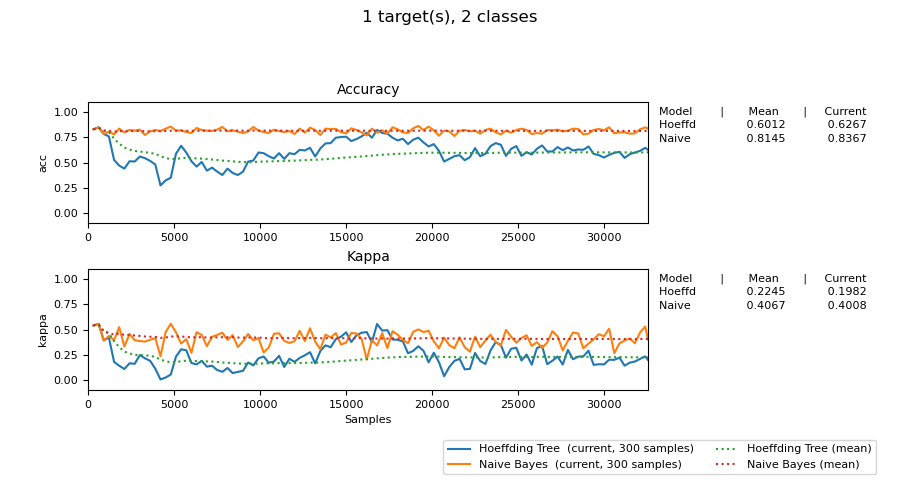
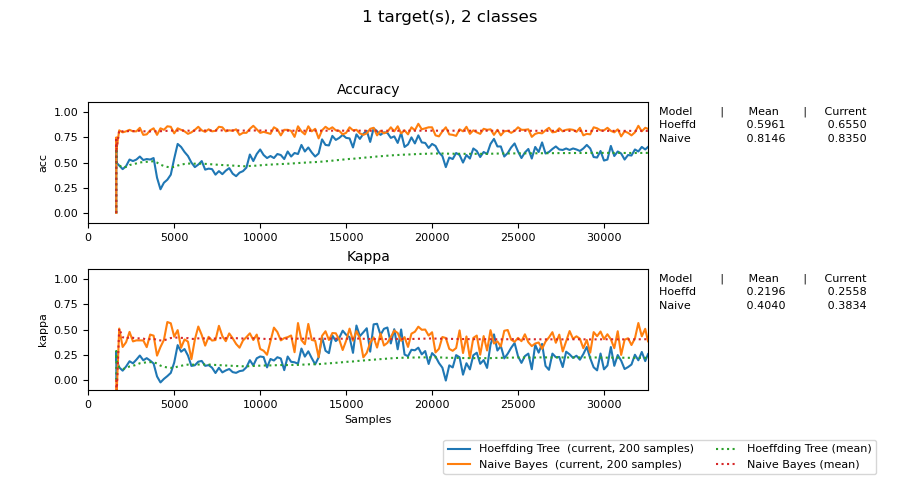
Added DTC-T2-A4 and some small fixes

diff --git a/DTC/T2/Apartado4_Income.py b/DTC/T2/Apartado4_Income.py
@@ -1,0 +1,66 @@
+import pandas as pd
+import numpy as np
+from sklearn.cluster import Birch
+from sklearn.metrics import silhouette_score, calinski_harabasz_score, davies_bouldin_score
+from river import cluster
+
+# Loading data
+data = pd.read_csv('./data/adult.csv', delimiter=',')
+
+# Removing columns that are not useful because we cannot measure distance between them
+data = data[['age', 'fnlwgt', 'education-num', 'capital-gain', 'capital-loss', 'hours-per-week']]
+
+# Data normalization
+data = (data - data.mean()) / data.std()
+
+# BIRCH initialization
+birch_model = Birch(n_clusters=None) #? threshold=0.5
+dbstream_model = cluster.DBSTREAM()
+
+# Scan all data
+iterations = 0
+for row in data.iterrows():
+    sample = row[1].values.reshape(1, -1)  # Convertir fila a array 2D
+
+    birch_model.partial_fit(sample)
+    x_dict = {f'feature_{i}': sample[0][i] for i in range(sample.shape[1])}
+    dbstream_model = dbstream_model.learn_one(x_dict)
+    iterations += 1
+    if iterations % 1000 == 0:
+        print(f"Processed {round(iterations/len(data) * 100, 2)}% of the samples")
+print(f"All samples processed")
+
+# Global clustering
+print("Global clustering...")
+birch_cluster_assignments = birch_model.predict(data.values.reshape(-1, 6))
+
+data_dicts = [{f'feature_{i}': row[i] for i in range(len(row))} for row in data.values]
+dbstream_assignments = [dbstream_model.predict_one(data_dict) for data_dict in data_dicts]
+
+# Metrics calculation
+metrics = {}
+print("Calculating metrics...")
+metrics['BIRCH'] = {
+    'n_clusters': len(np.unique(birch_cluster_assignments)),
+    'silhouette': silhouette_score(data.values, birch_cluster_assignments),
+    'calinski': calinski_harabasz_score(data.values, birch_cluster_assignments),
+    'davies': davies_bouldin_score(data.values, birch_cluster_assignments)
+}
+metrics['DBSTREAM'] = {
+    'n_clusters': len(np.unique(dbstream_assignments)),
+    'silhouette': silhouette_score(data.values, dbstream_assignments),
+    'calinski': calinski_harabasz_score(data.values, dbstream_assignments),
+    'davies': davies_bouldin_score(data.values, dbstream_assignments)
+}
+
+models = ['BIRCH', 'DBSTREAM']
+
+for model in models:
+    print("="*50)
+    print(f"Model: {model}")
+    print("-"*50)
+    print(f"Number of clusters: {metrics[model]['n_clusters']}")
+    print(f"Silhouette score: {metrics[model]['silhouette']}")
+    print(f"Calinski-Harabasz score: {metrics[model]['calinski']}")
+    print(f"Davies-Bouldin score: {metrics[model]['davies']}")
+print("="*50)

diff --git a/DTC/T2/Apartado2_Income.py b/DTC/T2/Apartado2_Income.py
@@ -41,7 +41,7 @@ n_samples = len(X)
 pretraining_size = int(n_samples * 0.05)
 evaluator = EvaluatePrequential(
     max_samples=n_samples,
-    n_wait=pretraining_size,
+    pretrain_size=pretraining_size,
     show_plot=True,
     metrics=['accuracy', 'kappa']
 )

diff --git a/DTC/T2/Apartado1_Income.py b/DTC/T2/Apartado1_Income.py
@@ -39,7 +39,6 @@ nb_classifier = NaiveBayes()
 # Evaluation creation
 evaluator = EvaluateHoldout(
     test_size=int(len(X) * 0.3),  # 30% for testing
-    dynamic_test_set=False,
     max_samples=len(X),
     n_wait=250,
     show_plot=True,
